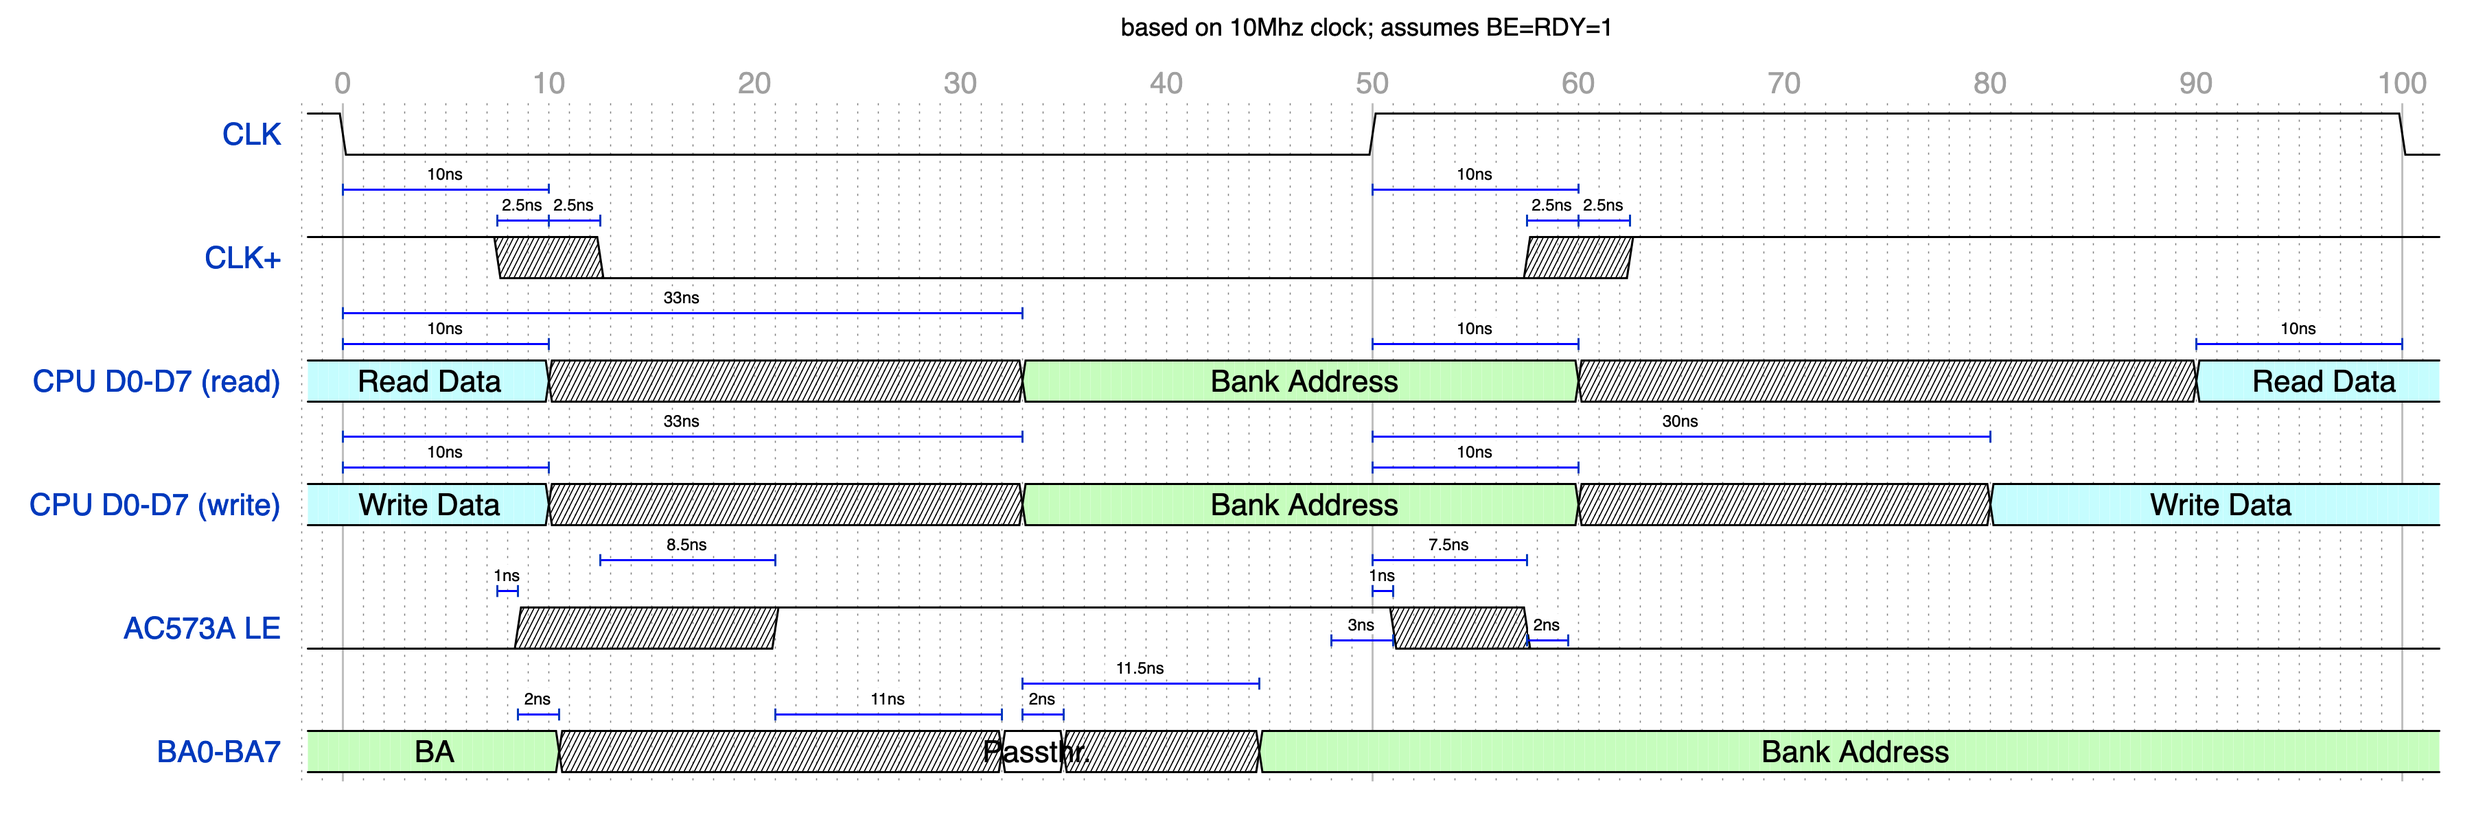
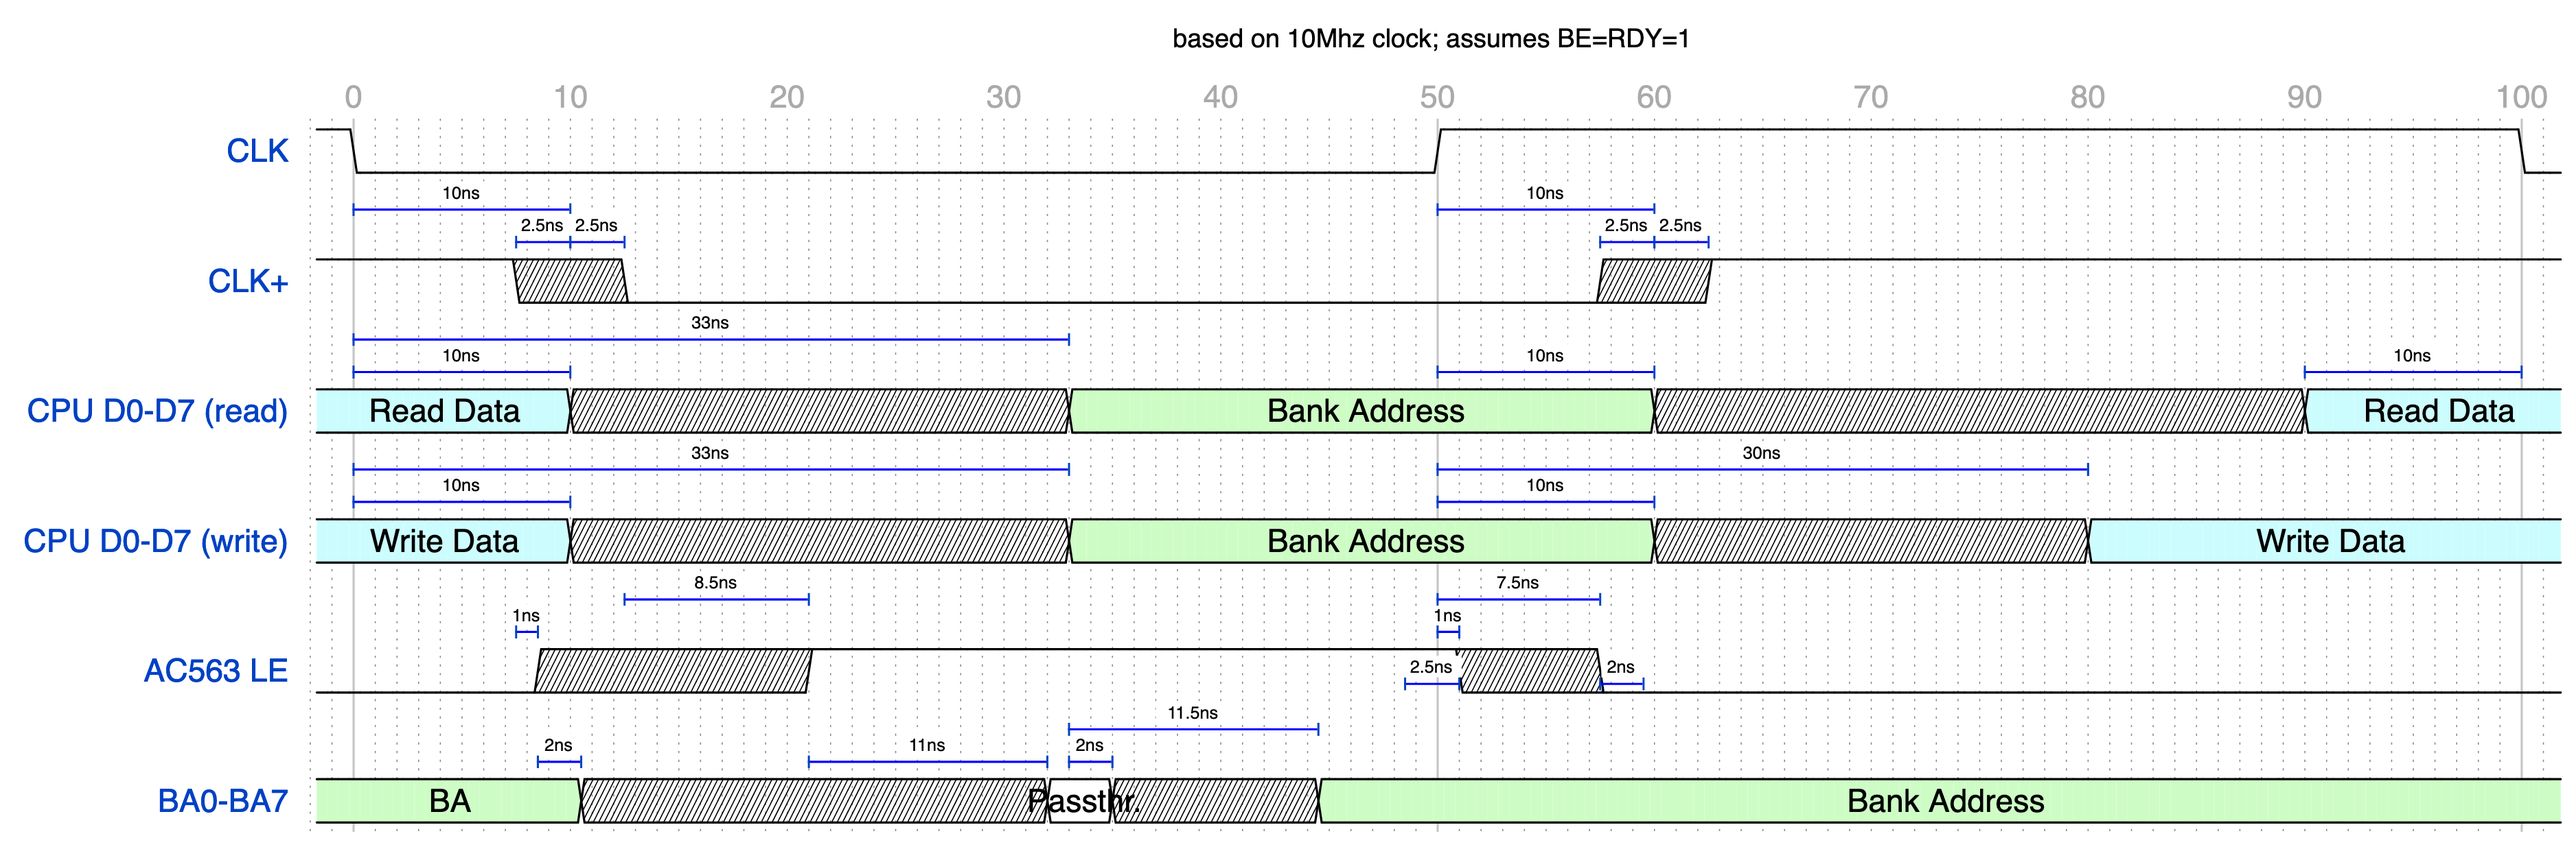
Update timings

diff --git a/README.md b/README.md
@@ -171,7 +171,7 @@ Uses [custom fork](https://github.com/adrienkohlbecker/wavedrom)
     { nodes: ['..K(33)C(17)Σ(30)I', '..Ρ(10)L(23)C(17)M(10)N'], phase: 0.45 },
     { name: 'CPU D0-D7 (write)', wave: '6(12)x(23)7(27)x(20)6(22)', data: ['Write Data', 'Bank Address', 'Write Data'], phase: 0.20 },
     { nodes: ['...(12.5)Я(8.5)P(29)Τ(7.5)S', '...(7.5)J(1)O..(39.5)Q(1)R'], phase: 0.45 },
-    { name: 'AC573A LE', wave: '0..(8.5)x(12.5)1(30)x(6.5)0(44.5)', node: '..(49)É(3)È.(5.5)À(2)Ç', phase: 0.20, nphase: 0.45, nyoffset: -6 },
+    { name: 'AC563 LE', wave: '0..(8.5)x(12.5)1(30)x(6.5)0(44.5)', node: '..(49.5)É(2.5)È.(5.5)À(2)Ç', phase: 0.20, nphase: 0.45, nyoffset: -6 },
     { nodes: ['..(34)Υ(11.5)Z', '...(8.5)T(2)U(10.5)V(11)W(1)X(2)Y'], phase: 0.45 },
     { name: 'BA0-BA7', wave: '7..(10.5)x(21.5)=(3)x(9.5)7(57.5)', data: ['BA', 'Passthr.', 'Bank Address'], phase: 0.20 },
   ],
@@ -181,7 +181,7 @@ Uses [custom fork](https://github.com/adrienkohlbecker/wavedrom)
     'Ρ+L 10ns', 'K+C 33ns', 'M+N 10ns', 'Σ+I 30ns',
     'J+O 1ns', 'Я+P 8.5ns', 'Q+R 1ns', 'Τ+S 7.5ns',
     'T+U 2ns', 'V+W 11ns', 'X+Y 2ns', 'Υ+Z 11.5ns',
-    'É+È 3ns', 'À+Ç 2ns',
+    'É+È 2.5ns', 'À+Ç 2ns',
   ],
   config: {
     skin: 'narrower',
@@ -222,10 +222,10 @@ Uses [custom fork](https://github.com/adrienkohlbecker/wavedrom)
     { name: 'ACT245 DIR', wave: '3..(10)x(20)3(70)..', data: ['RWB', 'RWB'], phase: 0.20 },
     { node: '...(10)Ё(1)Ж(19)З(12)И', phase: 0.45 },
     { name: 'ACT245 OUT', wave: '2..(11)x(31)2(58)..', data: ['DIR valid', 'DIR valid'], phase: 0.20 },
-    { nodes: ['...(11)(2.5)І(17)Л(21.5)(11)(2.5)Ѣ(15)Ц', '...(7.5)Й(2)К(41.5)(7.5)П(2)Ф'], phase: 0.45 },
-    { name: 'ACT245 OE', wave: '0..(9.5)x(20)1(30)x(18)0(22.5)..', data: ['RWB', 'RWB'], phase: 0.20 },
-    { node: '...(9.5)Ч(1)Ш(19)Щ(11)Ъ(19)Ы(1.5)Ь(16.5)Э(12)Ю', phase: 0.45 },
-    { name: 'ACT245 OUT', wave: '2..(10.5)x(30)2(20.5)x(28.5)2(10.5)..', data: ['ON', 'OFF', 'ON'], phase: 0.20 },
+    { nodes: ['...(11)(2.5)І(17)Л(21.5)(11)(2.5)Ѣ(16)Ц', '...(7.5)Й(2)К(41.5)(7.5)П(2)Ф'], phase: 0.45 },
+    { name: 'ACT245 OE', wave: '0..(9.5)x(20)1(30)x(19)0(21.5)..', data: ['RWB', 'RWB'], phase: 0.20 },
+    { node: '...(9.5)Ч(1)Ш(19)Щ(11)Ъ(19)Ы(1.5)Ь(17.5)Э(12)Ю', phase: 0.45 },
+    { name: 'ACT245 OUT', wave: '2..(10.5)x(30)2(20.5)x(29.5)2(9.5)..', data: ['ON', 'OFF', 'ON'], phase: 0.20 },
     { nodes: ['..Ε(10)Δ', '..(10)Φ(1)Έ(71)Ζ(9)Η(10)Ή'], phase: 0.45 },
     { name: 'D0-D7 (read)', wave: '6..(9)x(72)6(19)..', data: ['Read Data', 'Read Data'], phase: 0.20 },
     { node: '..Θ(10)Ι(1)Ί(39)Κ(30)Λ(9)Μ', phase: 0.45 },
@@ -237,7 +237,7 @@ Uses [custom fork](https://github.com/adrienkohlbecker/wavedrom)
     'Ρ+L 10ns', 'K+C 33ns', 'M+N 10ns', 'Σ+I 30ns',
     'Б+Г 10ns', 'Ύ+Д 30ns',
     'Ё+Ж 1ns', 'З+И 12ns',
-    'Й+К 2ns', 'І+Л 17ns', 'П+Ф 2ns', 'Ѣ+Ц 15ns',
+    'Й+К 2ns', 'І+Л 17ns', 'П+Ф 2ns', 'Ѣ+Ц 16ns',
     'Ч+Ш 1ns', 'Щ+Ъ 11ns', 'Ы+Ь 1.5ns', 'Э+Ю 12ns',
     'Ε+Δ 10ns', 'Φ+Έ 1ns', 'Ζ+Η 9ns', 'Η+Ή 10ns',
     'Θ+Ι 10ns', 'Ι+Ί 1ns', 'Κ+Λ 30ns', 'Λ+Μ 9ns'
@@ -275,19 +275,19 @@ Uses [custom fork](https://github.com/adrienkohlbecker/wavedrom)
     { name: 'A[0..15]', wave: '3..(10)x(20)3(70)..', data: ['', 'Address'], phase: 0.20 },
     { nodes: ['..Β(44.5)Ξ', '..Ν(10.5)Ά'], phase: 0.45 },
     { name: 'A[16..23]', wave: '7..(10.5)x(34)7(57.5)', data: ['', 'Bank Address'], phase: 0.20 },
-    { nodes: ['..Ο(75.5)Ό', '..A(11.5)D'], phase: 0.45 },
-    { name: 'EXTRAM_CS', wave: '8..(11.5)x(64)8(26.5)', data: ['', 'Extended RAM'], phase: 0.20 },
-    { nodes: ['..B(76.5)Π', '..E(11)F'], phase: 0.45 },
-    { name: 'ROM_CS', wave: '8..(11)x(65.5)8(25.5)', data: ['', 'ROM'], phase: 0.20 },
-    { nodes: ['..G(78.5)H', '..Ρ(12.5)L'], phase: 0.45 },
-    { name: 'IO_CS', wave: '8..(12.5)x(66)8(23.5)', data: ['', 'I/O'], phase: 0.20 },
-    { nodes: ['..K(76.5)C', '..M(11)N'], phase: 0.45 },
-    { name: 'RAM_CS', wave: '8..(11)x(65.5)8(25.5)', data: ['', 'RAM'], phase: 0.20 },
+    { nodes: ['..Ο(70)Ό', '..A(11.5)D'], phase: 0.45 },
+    { name: 'EXTRAM_CS', wave: '8..(11.5)x(58.5)8(32)', data: ['', 'Extended RAM'], phase: 0.20 },
+    { nodes: ['..B(76)Π', '..E(11.5)F'], phase: 0.45 },
+    { name: 'ROM_CS', wave: '8..(11.5)x(64.5)8(26)', data: ['', 'ROM'], phase: 0.20 },
+    { nodes: ['..G(79)H', '..Ρ(11)L'], phase: 0.45 },
+    { name: 'IO_CS', wave: '8..(11)x(68)8(23)', data: ['', 'I/O'], phase: 0.20 },
+    { nodes: ['..K(76)C', '..M(11.5)N'], phase: 0.45 },
+    { name: 'RAM_CS', wave: '8..(11.5)x(64.5)8(26)', data: ['', 'RAM'], phase: 0.20 },
   ],
   edge: [
-    'Ѳ+Ѵ 30ns', 'Α+Γ 10ns', 'Ν+Ά 10.5ns', 'Β+Ξ 44.5ns', 'Ο+Ό 75.5ns',
-    'A+D 11.5ns', 'B+Π 76.5ns', 'E+F 11ns', 'G+H 78.5ns',
-    'Ρ+L 12.6ns', 'K+C 76.5ns', 'M+N 11ns',
+    'Ѳ+Ѵ 30ns', 'Α+Γ 10ns', 'Ν+Ά 10.5ns', 'Β+Ξ 44.5ns', 'Ο+Ό 70ns',
+    'A+D 11.5ns', 'B+Π 76ns', 'E+F 11.5ns', 'G+H 79ns',
+    'Ρ+L 11ns', 'K+C 76ns', 'M+N 11.5ns',
   ],
   config: {
     skin: 'narrower',
@@ -320,33 +320,33 @@ Uses [custom fork](https://github.com/adrienkohlbecker/wavedrom)
     { name: 'BE', wave: '1....0(32)', phase: 0.20 },
     { nodes: ['.....Ѳ(25)Ѵ'], phase: 0.45 },
     { name: 'CPU ADDR & RWB', wave: '7....x(25)9(7)', data:['ON', 'OFF'], phase: 0.20 },
-    { nodes: ['.....Ά(8.5)Ν', '.....Α(1.5)Γ'], phase: 0.45 },
-    { name: 'AC573 OE', wave: '0.....(1.5)x(7)1(23.5)', data:['ON', 'OFF'], phase: 0.20 },
-    { nodes: ['......(8.5)Β(12)Ξ', '......(1.5)Ο(2)Ό'], phase: 0.45 },
-    { name: 'AC573 OUT', wave: '7.....(3.5)x(17)9(11.5)', data:['ON', 'OFF'], phase: 0.20 },
-    { nodes: ['.....A(17)D', '.....B(2.5)Π'], phase: 0.45 },
-    { name: 'ACT245 OE', wave: '0.....(2.5)x(14.5)1(15)', data:['ON', 'OFF'], phase: 0.20 },
-    { nodes: ['......(17)E(11)F', '......(2.5)G(1)H'], phase: 0.45 },
-    { name: 'ACT245 OUT', wave: '7.....(3.5)x(24.5)9(4)', data:['ON', 'OFF'], phase: 0.20 },
+    { nodes: ['.....Ά(8.5)Ν', '.....Α(1)Γ'], phase: 0.45 },
+    { name: 'AC563 OE', wave: '0.....(1)x(7.5)1(23.5)', data:['ON', 'OFF'], phase: 0.20 },
+    { nodes: ['......(8.5)Β(12)Ξ', '......(1)Ο(1.5)Ό'], phase: 0.45 },
+    { name: 'AC563 OUT', wave: '7.....(2.5)x(18)9(11.5)', data:['ON', 'OFF'], phase: 0.20 },
+    { nodes: ['.....A(17)D', '.....B(2)Π'], phase: 0.45 },
+    { name: 'ACT245 OE', wave: '0.....(2)x(15)1(15)', data:['ON', 'OFF'], phase: 0.20 },
+    { nodes: ['......(17)E(11)F', '......(2)G(1)H'], phase: 0.45 },
+    { name: 'ACT245 OUT', wave: '7.....(3)x(25)9(4)', data:['ON', 'OFF'], phase: 0.20 },
     {},
     {},
     { name: 'BE', wave: '0....1(32)', phase: 0.20 },
     { nodes: ['.....Ρ(25)L'], phase: 0.45 },
     { name: 'CPU ADDR & RWB', wave: '9....x(25)7(7)', data:['OFF', 'ON'], phase: 0.20 },
-    { nodes: ['.....M(7)N', '.....K(1)C'], phase: 0.45 },
-    { name: 'AC573 OE', wave: '1.....(1)x(6)0(25)', data:['ON', 'OFF'], phase: 0.20 },
-    { nodes: ['......(7)J(10)O', '......(1)Σ(2)I'], phase: 0.45 },
-    { name: 'AC573 OUT', wave: '9.....(3)x(14)7(15)', data:['OFF', 'ON'], phase: 0.20 },
-    { nodes: ['.....Q(14.5)R', '.....Я(2)P'], phase: 0.45 },
-    { name: 'ACT245 OE', wave: '1.....(2)x(12.5)0(17.5)', data:['ON', 'OFF'], phase: 0.20 },
-    { nodes: ['......(14.5)T(12)U', '......(2)Τ(1.5)S'], phase: 0.45 },
-    { name: 'ACT245 OUT', wave: '9.....(3.5)x(23)7(5.5)', data:['OFF', 'ON'], phase: 0.20 },
+    { nodes: ['.....M(8.5)N', '.....K(1)C'], phase: 0.45 },
+    { name: 'AC563 OE', wave: '1.....(1)x(7.5)0(23.5)', data:['ON', 'OFF'], phase: 0.20 },
+    { nodes: ['......(8.5)J(10)O', '......(1)Σ(2)I'], phase: 0.45 },
+    { name: 'AC563 OUT', wave: '9.....(3)x(15.5)7(13.5)', data:['OFF', 'ON'], phase: 0.20 },
+    { nodes: ['.....Q(17)R', '.....Я(2)P'], phase: 0.45 },
+    { name: 'ACT245 OE', wave: '1.....(2)x(15)0(15)', data:['ON', 'OFF'], phase: 0.20 },
+    { nodes: ['......(17)T(12)U', '......(2)Τ(1.5)S'], phase: 0.45 },
+    { name: 'ACT245 OUT', wave: '9.....(3.5)x(25.5)7(3)', data:['OFF', 'ON'], phase: 0.20 },
   ],
   edge: [
-    'Ѳ+Ѵ 25ns', 'Α+Γ 1.5ns', 'Ά+Ν 8.5ns', 'Ο+Ό 2ns', 'Ξ+Β 12ns',
-    'B+Π 2.5ns', 'A+D 17ns', 'G+H 1ns','E+F 11ns',
-    'Ρ+L 25ns', 'K+C 1ns', 'M+N 7ns', 'Σ+I 2ns', 'J+O 10ns',
-    'Я+P 2ns', 'Q+R 14.5ns', 'Τ+S 1.5ns','T+U 12ns',
+    'Ѳ+Ѵ 25ns', 'Α+Γ 1ns', 'Ά+Ν 8.5ns', 'Ο+Ό 1.5ns', 'Ξ+Β 12ns',
+    'B+Π 2ns', 'A+D 17ns', 'G+H 1ns','E+F 11ns',
+    'Ρ+L 25ns', 'K+C 1ns', 'M+N 8.5ns', 'Σ+I 2ns', 'J+O 10ns',
+    'Я+P 2ns', 'Q+R 17ns', 'Τ+S 1.5ns','T+U 12ns',
   ],
   config: {
     skin: 'narrower',
@@ -377,19 +377,19 @@ Uses [custom fork](https://github.com/adrienkohlbecker/wavedrom)
 {
   signal: [
     { name: 'CLK', wave: '1.0(50)1(50)0.', phase: 0.20 },
-    { nodes: ['...(47)Ξ(3)Ο(0.5)Ό'], phase: 0.45 },
-    { name: 'RDY_IN', wave: 'z..(47)6(3.5)z(51.5)', data: ['IN'], phase: 0.20 },
-    { nodes: ['...(50)B(10.5)Π', '...(50)E(2.5)F'], phase: 0.45 },
-    { name: 'RDY (registered)', wave: '4..(52.5)x(8)4(41.5)', data: ['RDY (reg)', 'RDY (reg)'], phase: 0.20 },
+    { nodes: ['...(45)Ξ(5)Ο(0.5)Ό'], phase: 0.45 },
+    { name: 'RDY_IN', wave: 'z..(45)6(5.5)z(51.5)', data: ['IN'], phase: 0.20 },
+    { nodes: ['...(50)B(10.5)Π', '...(50)E(1)F'], phase: 0.45 },
+    { name: 'RDY (registered)', wave: '4..(51)x(9.5)4(41.5)', data: ['RDY (reg)', 'RDY (reg)'], phase: 0.20 },
     { nodes: ['...(60.5)Σ(30)I'], phase: 0.45 },
     { name: 'RDY', wave: '3..(52.5)x(38)3(11.5)', data: ['RDY', 'RDY'], phase: 0.20 },
     { nodes: ['..Ύ(10)Д(80)Ё(10)Ж'], phase: 0.45 },
     { name: 'RDY (cpu in)', wave: '6..(10)z(80)6(12)', data: ['RDY', 'RDY'], phase: 0.20 },
   ],
   edge: [
-    'Ξ+Ο 3ns', 'Ο+Ό .5ns',
-    'B+Π 10.5ns', 'E+F 2.5ns',
-    'Σ+I 30ns',
+    'Ξ+Ο 5ns', 'Ο+Ό 0.5ns',
+    'B+Π 10.5ns', 'E+F 1ns',
+    'Σ+I 30ns (approx. measured)',
     'Ύ+Д 10ns', 'Ё+Ж 10ns',
   ],
   config: {
@@ -427,18 +427,18 @@ Uses [custom fork](https://github.com/adrienkohlbecker/wavedrom)
     { name: 'READ BUFFER', wave: '6..(9)x(222)6(19)..', data: ['', 'Reading Data'], phase: 0.20 },
     { nodes: ['..Ѳ(38.5)Ѵ', '..Α(11)Γ'], phase: 0.9 },
     { name: 'RD', wave: '0..(11)x(27.5)0(213.5)', data: ['', 'ROM'], phase: 0.20 },
-    { nodes: ['..B(76.5)Π', '..E(11)F'], phase: 0.9 },
-    { name: 'ROM_CS', wave: '0..(11)x(65.5)0(175.5)', data: ['', 'ROM'], phase: 0.20 },
+    { nodes: ['..B(76)Π', '..E(11.5)F'], phase: 0.9 },
+    { name: 'ROM_CS', wave: '0..(11.5)x(64.5)0(176)', data: ['', 'ROM'], phase: 0.20 },
     { nodes: ['', '...(30)Ο(150)Ό'], phase: 0.9 },
-    { nodes: ['...(38.5)Ν(70)Ά', '...(76.5)Β(150)Ξ'], phase: 0.9 },
-    { name: 'ROM DATA (1/2)', wave: 'z..(11)x(165.5)x(50)5(25.5)', data: ['OUTPUT VALID'], phase: 0.20 },
+    { nodes: ['...(38.5)Ν(70)Ά', '...(76)Β(150)Ξ'], phase: 0.9 },
+    { name: 'ROM DATA (1/2)', wave: 'z..(11)x(165)x(50)5(26)', data: ['OUTPUT VALID'], phase: 0.20 },
     { nodes: ['...(10)Q(0)S', '..G(10)R(28.5)H(50)P'], phase: 0.9 },
     { name: 'ROM DATA (1/2)', wave: '5..(10)x(78.5)z(163.5)', data: ['', 'OUTPUT VALID'], phase: 0.20 },
   ],
   edge: [
     'Б+Г 10ns', 'Ύ+Д 30ns',
     'Φ+Έ 9ns', 'Ζ+Η 19ns',
-    'B+Π 76.5ns', 'E+F 11ns',
+    'B+Π 76ns', 'E+F 11.5ns',
     'Ѳ+Ѵ 38.5ns', 'Α+Γ 11ns',
     'Ν+Ά 70ns (tOE)', 'Β+Ξ 150ns (tCE)', 'Ο+Ό 150ns (tAcc)', 'G+R 10ns', 'H+P 50ns (tDF)',
     'Q+S 0ns (tOH)'
@@ -480,18 +480,18 @@ Uses [custom fork](https://github.com/adrienkohlbecker/wavedrom)
     { name: 'READ BUFFER', wave: '6..(9)x(222)6(19)..', data: ['', 'Reading Data'], phase: 0.20 },
     { nodes: ['..Ѳ(38.5)Ѵ', '..Α(11)Γ'], phase: 0.9 },
     { name: 'RD', wave: '0..(11)x(27.5)0(213.5)', data: ['', 'ROM'], phase: 0.20 },
-    { nodes: ['..B(76.5)Π', '..E(11)F'], phase: 0.9 },
-    { name: 'RAM_CS', wave: '0..(11)x(65.5)0(175.5)', data: ['', 'ROM'], phase: 0.20 },
+    { nodes: ['..B(76)Π', '..E(11.5)F'], phase: 0.9 },
+    { name: 'RAM_CS', wave: '0..(11.5)x(64.5)0(176)', data: ['', 'ROM'], phase: 0.20 },
     { nodes: ['', '...(30)Ο(55)Ό'], phase: 0.9 },
-    { nodes: ['...(11)M(10)Σ(55.5)Β(55)Ξ', '...(11)Ё(5)Ж(22.4)Ν(30)Ά'], phase: 0.9 },
-    { name: 'RAM DATA (1/2)', wave: 'z..(16)x(115.5)5(120.5)', data: ['OUTPUT VALID'], phase: 0.20 },
-    { nodes: ['...(10)S(10)T(18.5)R(20)P(18)L(20)K', '..G(11)H'], phase: 0.9 },
+    { nodes: ['...(11.5)M(10)Σ(54.5)Β(55)Ξ', '...(11)Ё(5)Ж(22.4)Ν(30)Ά'], phase: 0.9 },
+    { name: 'RAM DATA (1/2)', wave: 'z..(16)x(115)5(121)', data: ['OUTPUT VALID'], phase: 0.20 },
+    { nodes: ['...(10)S(10)T(18.5)R(20)P(17.5)L(20)K', '..G(11)H'], phase: 0.9 },
     { name: 'RAM DATA (2/2)', wave: '5..(11)x(47.5)z(193.5)', data: [''], phase: 0.20 },
   ],
   edge: [
     'Б+Г 10ns', 'Ύ+Д 30ns',
     'Φ+Έ 9ns', 'Ζ+Η 19ns',
-    'B+Π 76.5ns', 'E+F 11ns',
+    'B+Π 76ns', 'E+F 11.5ns',
     'Ѳ+Ѵ 38.5ns', 'Α+Γ 11ns',
     'Ν+Ά 30ns (tOE)',
     'Β+Ξ 55ns (tACE)',
@@ -532,26 +532,26 @@ Uses [custom fork](https://github.com/adrienkohlbecker/wavedrom)
     { name: 'CLK', wave: '1.0(125)1(125)0.', phase: 0.20 },
     { nodes: ['..Ύ(30)Д', '..Б(10)Г'], phase: 0.9 },
     { name: 'A0..15, RWB', wave: '3..(10)x(20)3(220)..', data: ['', 'ADDRESS, RWB'], phase: 0.20 },
-    { nodes: ['..Φ(10.5)Έ(114.5)Ζ(39.5)Η'], phase: 0.9 },
-    { name: 'WRITE BUFFER', wave: '6..(10.5)x(154)6(85.5)..', data: ['', 'Writing Data'], phase: 0.20 },
-    { nodes: ['..B(76.5)Π', '..E(11)F'], phase: 0.9 },
-    { name: 'RAM_CS', wave: '0..(11)x(65.5)0(175.5)', data: ['', 'ROM'], phase: 0.20 },
+    { nodes: ['..Φ(10.5)Έ(114.5)Ζ(40.5)Η'], phase: 0.9 },
+    { name: 'WRITE BUFFER', wave: '6..(10.5)x(155)6(84.5)..', data: ['', 'Writing Data'], phase: 0.20 },
+    { nodes: ['..B(76)Π', '..E(11.5)F'], phase: 0.9 },
+    { name: 'RAM_CS', wave: '0..(11.5)x(64.5)0(176)', data: ['', 'ROM'], phase: 0.20 },
     { nodes: ['...(30)U(55)V', '...(30)Ο(50)Ό'], phase: 0.9 },
-    { nodes: ['...(76.5)Β(50)Ξ', '...(8.5)P(0)Q(117.5)I(0)J(7.5)M(45)N',], phase: 0.9 },
-    { nodes: ['..Ѳ(8.5)Ѵ', '..Α(1)Γ'], phase: 0.9 },
+    { nodes: ['...(76)Β(50)Ξ', '...(8.5)P(0)Q(117.5)I(0)J(7.5)M(45)N',], phase: 0.9 },
+    { nodes: ['..Ѳ(8.5)Ѵ(116.5)R(8.5)S', '..Α(1)Γ(124)C(1)D'], phase: 0.9 },
     { name: 'WR', wave: '0..(1)x(7.5)1(117.5)x(7.5)0(118.5)', data: ['', 'ROM'], phase: 0.20 },
     { nodes: ['...(8.5)G(0)H(217.5)L(25)K'], phase: 0.9 },
     { name: 'RAM DATA', wave: '5..(8.5)z(217.5)5(26)', data: ['', 'DATA VALID'], phase: 0.20 },
   ],
   edge: [
     'Б+Г 10ns', 'Ύ+Д 30ns',
-    'Φ+Έ 10.5ns', 'Ζ+Η 39.5ns',
-    'B+Π 76.5ns', 'E+F 11ns',
+    'Φ+Έ 10.5ns', 'Ζ+Η 40.5ns',
+    'B+Π 76ns', 'E+F 11.5ns',
     'Ѳ+Ѵ 8.5ns', 'Α+Γ 1ns',
     'Β+Ξ 50ns (tCW)', 'Ο+Ό 50ns (tAW)',
     'G+H 0ns (tDH)','L+K 25ns (tDW)',
     'I+J 0ns (tAS)', 'M+N 45ns (tWP)', 'P+Q 0ns (tWR)',
-    'U+V 55ns (tWC)'
+    'U+V 55ns (tWC)', 'C+D 1ns', 'R+S 8.5ns'
   ],
   config: {
     skin: 'narrowerer',
